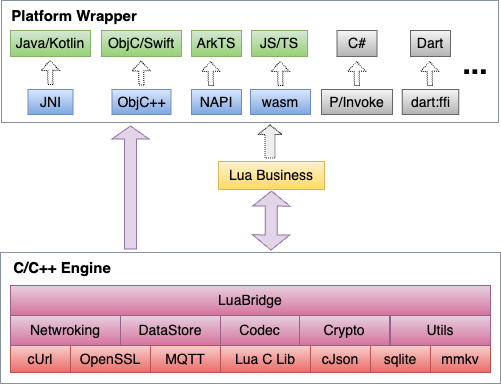
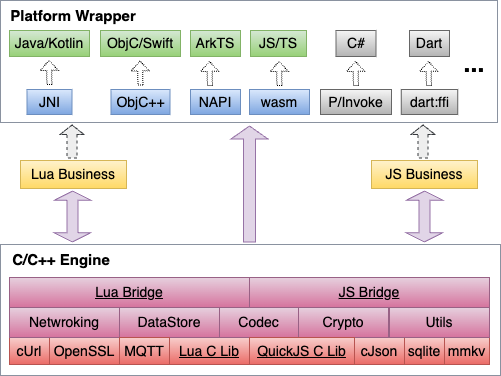
Update arch graph and README.

Changed region(s): [[0.0, 0.0, 1.0, 0.9654]]

diff --git a/README.md b/README.md
@@ -4,7 +4,7 @@ A cross-platform C/C++ framework.
 
 ![Arch](/res/arch.png)
 
-### :iphone: Supported Platforms:
+### Supported Platforms:
 
 | Platform        | Build              | Demo               |
 | :-------------- | :----------------: | :----------------: |
@@ -15,12 +15,17 @@ A cross-platform C/C++ framework.
 | Linux           | :heavy_check_mark: | :heavy_check_mark: |
 | WebAssembly     | :heavy_check_mark: | :heavy_check_mark: |
 
-### :warning: Unsupported Features in WebAssembly:
+### Supported Script Languages
+
+[x] Lua;
+[ ] JavaScript;
+
+### Unsupported Features in WebAssembly:
 
 * Load Lua script with file;(Will trigger a prompt window.)
 * [C/C++ callback JS function in async thread][2];
 
-### :hammer_and_pick: Requirements:
+### Requirements:
 
 * C99, C++11;
 * Clang;
